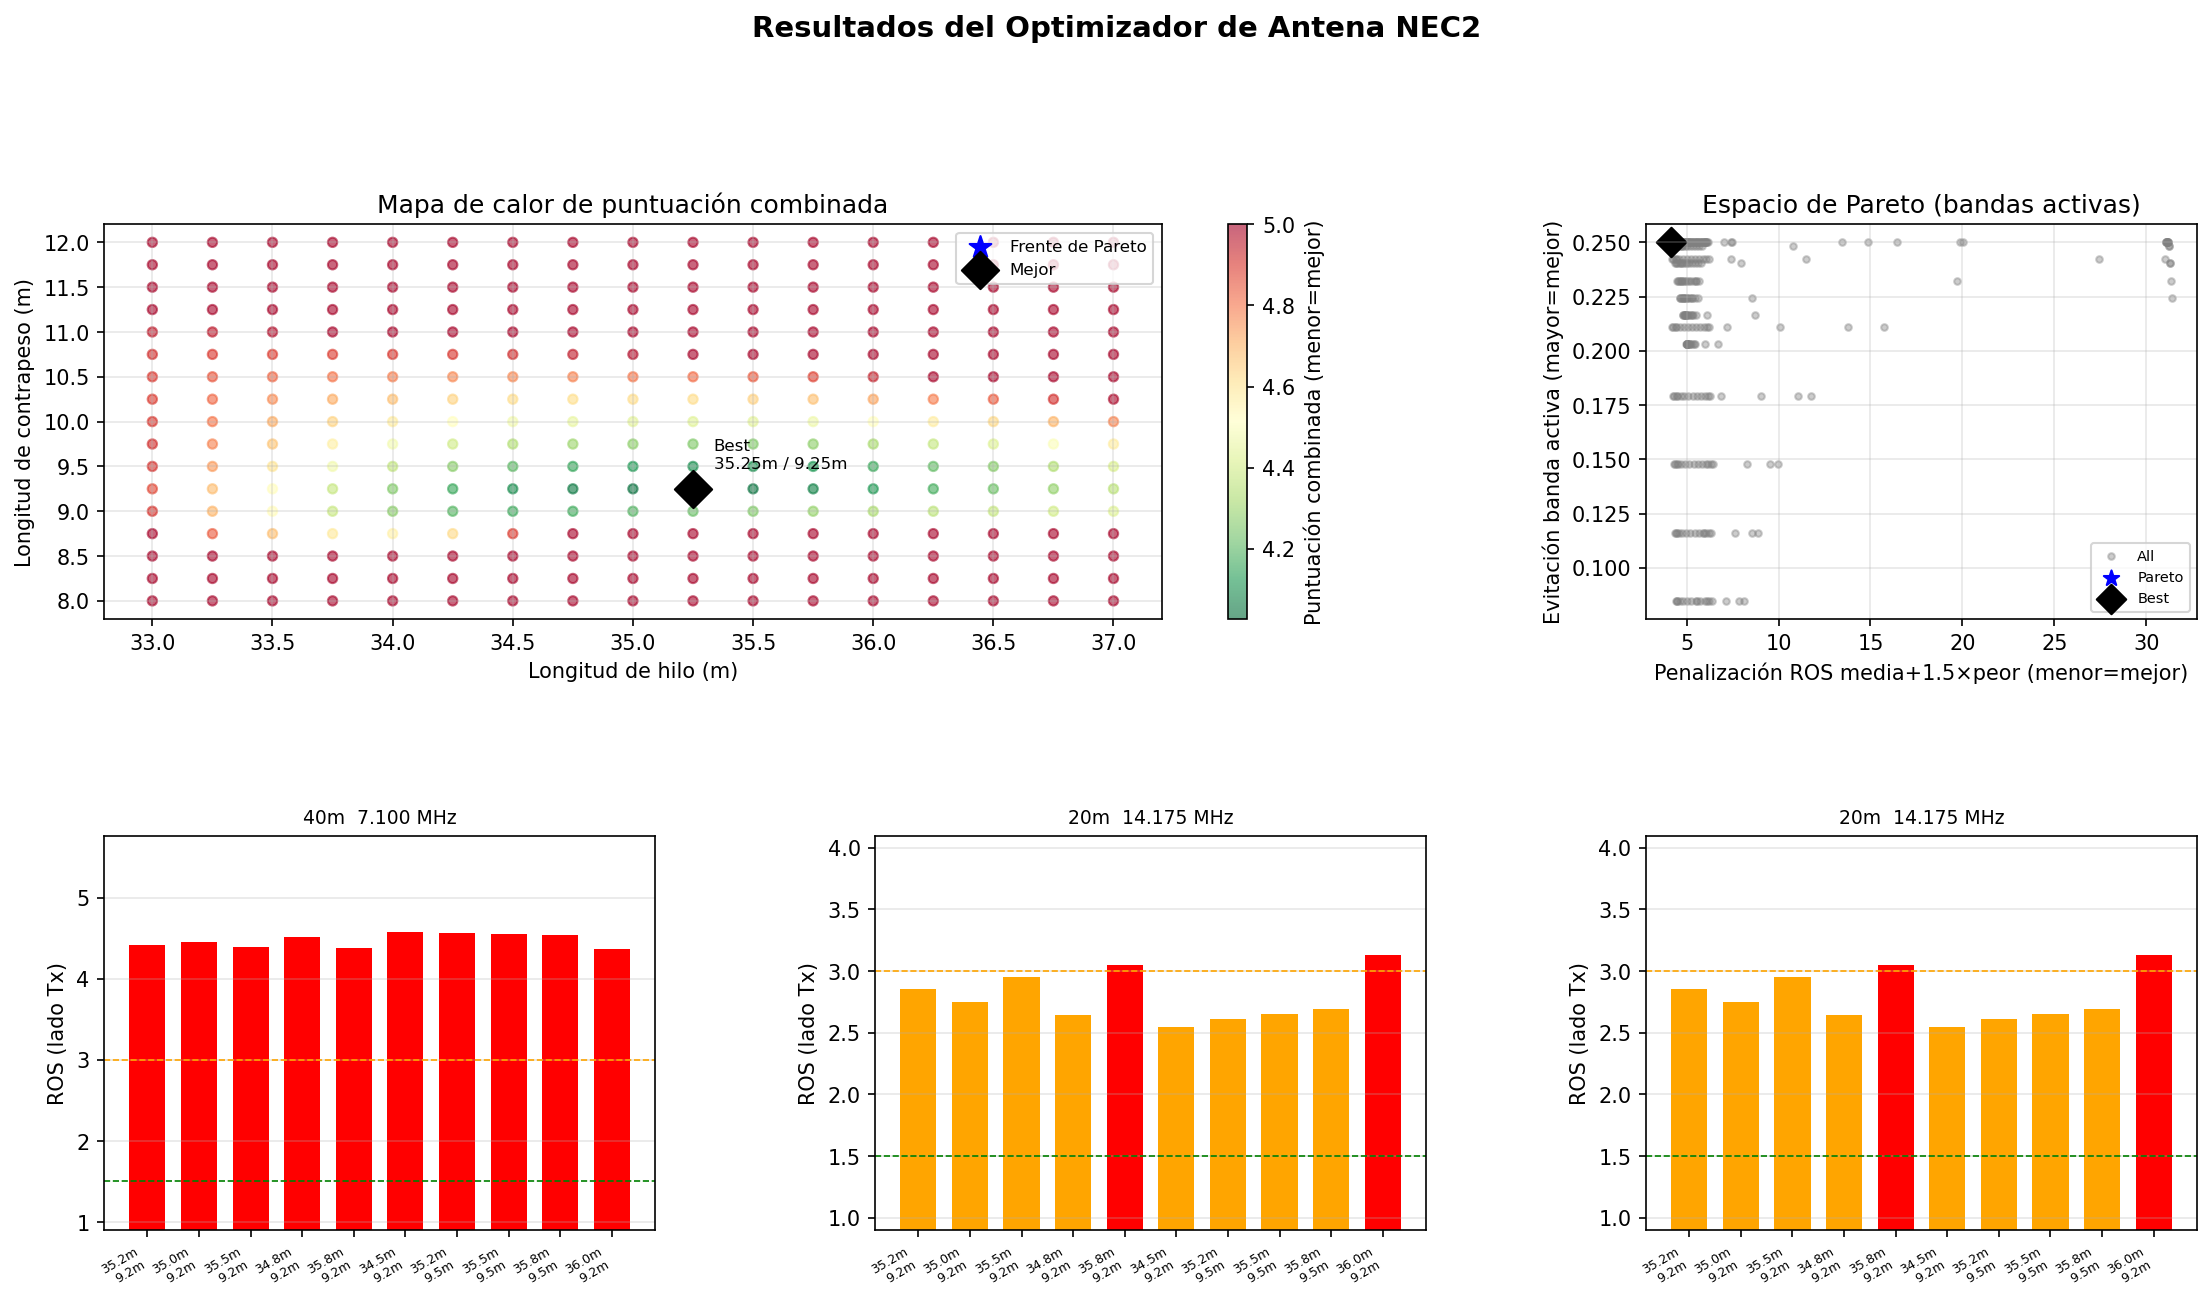
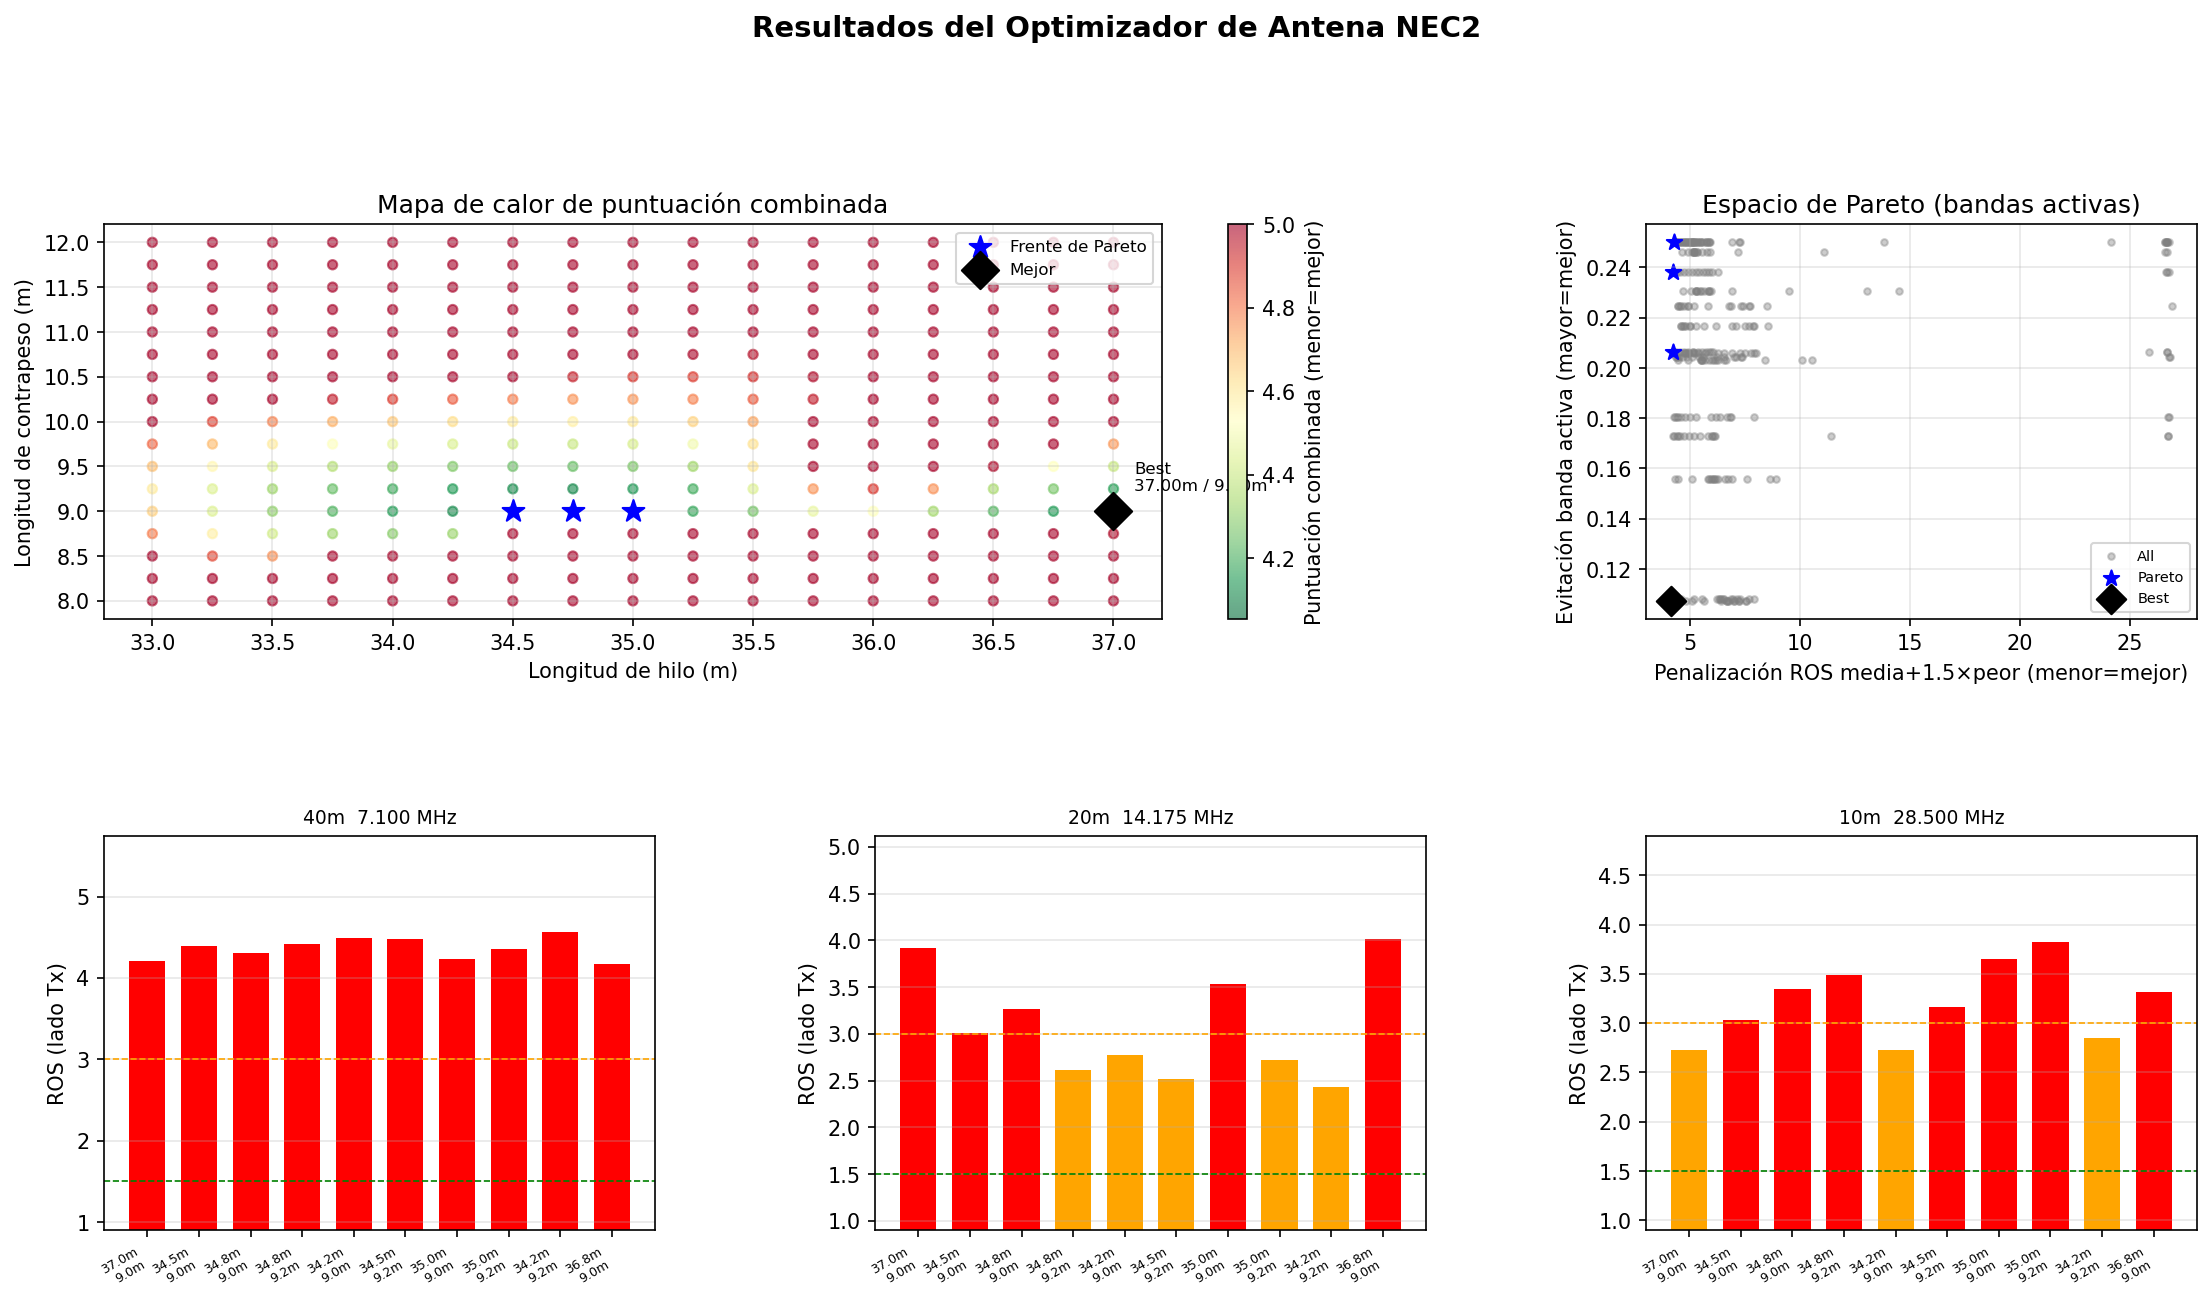
correct 3d pattern

diff --git a/nec2_length_optimizer.py b/nec2_length_optimizer.py
@@ -3835,13 +3835,18 @@ def plot_radiation_diagrams(
 
             _TG, _PG = _np.meshgrid(_T, _P, indexing="ij")
 
-            # ── Normalise R ∈ [floor, 1.0] ──────────────────────────────
-            # floor=0.05 keeps deep nulls as a thin surface (avoids
-            # degenerate zero-area polygons) while preserving full dynamic
-            # range so lobe shapes are clearly visible.
-            _R3D_FLOOR = 0.05
-            _R = (_R3D_FLOOR
-                  + (1.0 - _R3D_FLOOR) * (_DB - _raw_min) / _raw_span)
+            # ── Normalise R via dB-to-amplitude: R = 10^((dB - max)/20) ────
+            # This maps: max_dB → R=1.0, (max−20 dB) → R=0.1, (max−40 dB) → R=0.01
+            # Physical meaning: R is proportional to field amplitude, so lobe
+            # shapes match MMANA-GAL / EZNEC exactly.
+            # The previous linear mapping (floor + linear fraction of raw_span)
+            # collapsed all gains toward R≈1 when real dynamic range was
+            # narrower than the 30 dB clamp window, producing a near-sphere
+            # that set_box_aspect([1,1,0.75]) then flattened into a disc.
+            # A hard floor at 0.01 (−40 dB below peak) avoids degenerate
+            # zero-area polygons at deep nulls.
+            _R3D_FLOOR = 0.01
+            _R = _np.maximum(_R3D_FLOOR, 10.0 ** ((_DB - _raw_max) / 20.0))
 
             # ── Spherical → Cartesian (upper hemisphere: Z >= 0) ────────
             _theta_rad = _np.radians(_TG)   # 0…π/2  →  cos >= 0  →  Z >= 0
@@ -3855,11 +3860,13 @@ def plot_radiation_diagrams(
             _cmap    = _get_cm("jet")
             _norm    = _mpl_colors.Normalize(vmin=_raw_min, vmax=_raw_max)
 
-            # plot_surface with rstride=1, cstride=1 needs facecolors with
-            # shape (n_theta-1, n_phi-1, 4) — one fewer row and column than
-            # the vertex grid.  Average each 2×2 quad of vertex DB values so
-            # the face colour represents its four surrounding vertices, then
-            # trim to the correct face-count dimensions.
+            # plot_surface(rstride=1, cstride=1) creates (n_theta-1)*(n_phi-1)
+            # quad faces — one per pair of adjacent rows/columns.  facecolors
+            # must therefore have shape (n_theta-1, n_phi-1, 4), NOT the full
+            # vertex shape (n_theta, n_phi, 4).  Passing vertex-sized colors
+            # causes matplotlib to mis-assign colors to faces, producing the
+            # fin/spike artifacts seen in the broken output.
+            # Fix: average each 2×2 vertex quad → one face color.
             _DB_face = (
                 _DB[ :-1,  :-1]
               + _DB[1:  ,  :-1]
@@ -3910,11 +3917,16 @@ def plot_radiation_diagrams(
         ax3d.set_xlabel("X", fontsize=7, labelpad=2)
         ax3d.set_ylabel("Y", fontsize=7, labelpad=2)
         ax3d.set_zlabel("Z", fontsize=7, labelpad=2)
-        ax3d.set_zlim(0, 1)
+        # Z ∈ [0, 1]: R_max=1.0 at peak, hemisphere sits on Z=0 ground.
+        # Consistent with 10^(dB/20) normalization: cos(0°)=1 at zenith.
+        ax3d.set_zlim(0.0, 1.0)
+        # Equal X/Y/Z aspect so the half-balloon is not distorted.
+        # The previous [1, 1, 0.75] compressed Z by 25 %, which — combined
+        # with near-sphere data — produced a flat disc artifact.
         try:
-            ax3d.set_box_aspect([1, 1, 0.7])   # slightly flattened hemisphere
+            ax3d.set_box_aspect([1.0, 1.0, 1.0])
         except AttributeError:
-            pass  # set_box_aspect requires matplotlib ≥ 3.3
+            pass
         ax3d.view_init(elev=28, azim=-55)
         ax3d.grid(True, color="#cccccc", linewidth=0.5)
 